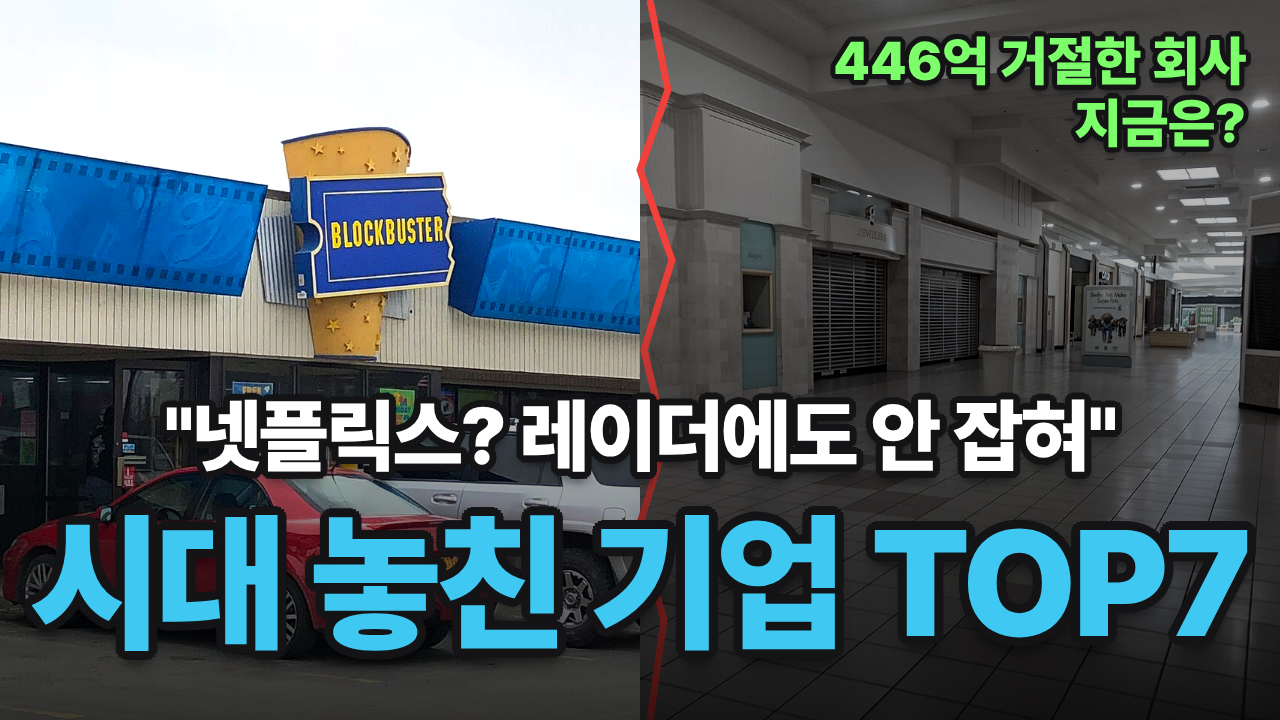
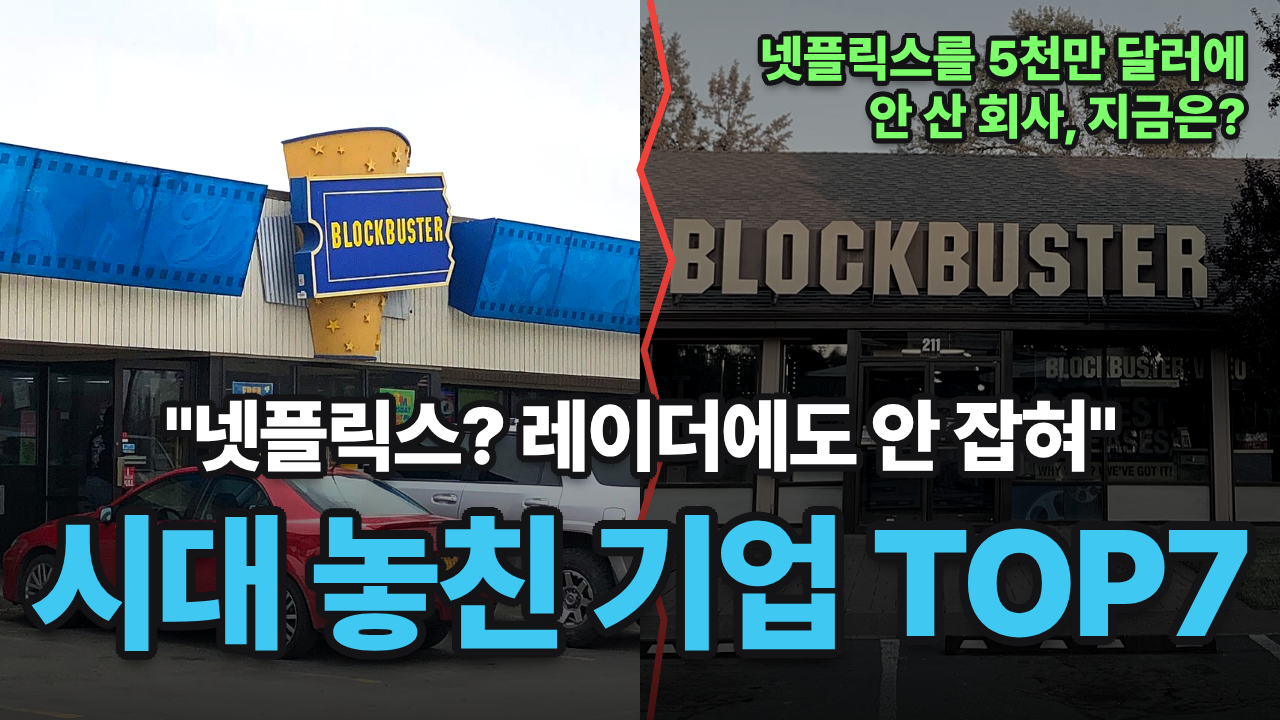
Rebuild thumbnail around the revised intro
Claude-Session: https://claude.ai/code/session_01RLcyHUEQojNezdTodVGnHY

diff --git a/src/Thumbnail.tsx b/src/Thumbnail.tsx
@@ -2,8 +2,9 @@ import React from "react";
 import { AbsoluteFill, Img, staticFile } from "remotion";
 import { C, FONT, loadFonts, outlined } from "./theme";
 
-// YouTube thumbnail in the reference's layout: then-vs-now split photo with a red crack,
-// a quote across the middle, the big sky-blue TOP7 line, and a small hook in the corner.
+// YouTube thumbnail in the reference's layout, built from the intro's beats:
+// corner hook = intro scene 1 (the $50M Netflix offer), centre quote = scene 2 (the radar line),
+// right photo = the intro's answer (the last Blockbuster left), left photo = Blockbuster in its prime.
 export const Thumbnail: React.FC = () => {
   loadFonts();
   const crack = "M 0 0 L 18 90 L -10 170 L 22 260 L -6 350 L 16 440 L -12 530 L 14 620 L 0 720";
@@ -13,16 +14,16 @@ export const Thumbnail: React.FC = () => {
         <Img src={staticFile("images/bb_store.jpg")} style={{ width: "100%", height: "100%", objectFit: "cover", filter: "saturate(1.25) brightness(1.05)" }} />
       </div>
       <div style={{ position: "absolute", left: 640, top: 0, width: 640, height: 720, overflow: "hidden" }}>
-        <Img src={staticFile("images/abandoned_mall.jpg")} style={{ width: "100%", height: "100%", objectFit: "cover", filter: "grayscale(0.6) brightness(0.7) contrast(1.1)" }} />
+        <Img src={staticFile("images/bb_last.jpg")} style={{ width: "100%", height: "100%", objectFit: "cover", filter: "grayscale(0.75) brightness(0.62) contrast(1.15)" }} />
       </div>
       <svg width={60} height={720} viewBox="-30 0 60 720" style={{ position: "absolute", left: 620, top: 0 }}>
         <path d={crack} stroke={C.red} strokeWidth={7} fill="none" />
       </svg>
       <AbsoluteFill style={{ background: "linear-gradient(180deg, rgba(0,0,0,0) 35%, rgba(0,0,0,0.75) 100%)" }} />
-      <div style={{ position: "absolute", right: 34, top: 30, textAlign: "right", color: "#7CFF6B", fontSize: 54, fontWeight: 900, lineHeight: 1.15, ...outlined(10) }}>
-        446억 거절한 회사
+      <div style={{ position: "absolute", right: 34, top: 30, textAlign: "right", color: "#7CFF6B", fontSize: 50, fontWeight: 900, lineHeight: 1.15, ...outlined(10) }}>
+        넷플릭스를 5천만 달러에
         <br />
-        지금은?
+        안 산 회사, 지금은?
       </div>
       <div style={{ position: "absolute", left: 0, right: 0, top: 388, textAlign: "center", color: C.white, fontSize: 80, fontWeight: 900, letterSpacing: -2, ...outlined(14) }}>
         "넷플릭스? 레이더에도 안 잡혀"

diff --git a/content/script_20min_v2.md b/content/script_20min_v2.md
@@ -11,15 +11,19 @@
 - 한 줄 정의: 지금 버는 돈만 지키다 시대를 놓친 기업
 - 공통 믿음: "지금 버는 돈이면 괜찮다고 믿었다"
 - 시청자가 앉을 자리: 그 회사 제품을 쓰던 손님 → 1위에서 회사를 믿은 사람들(은퇴자, 우리 부모님 세대)
-- 제목 안: "넷플릭스? 레이더에도 안 잡혀" 시대를 놓치고 몰락한 공룡 기업 TOP7
+- 제목 안: "넷플릭스? 레이더에도 안 잡혀" 5천만 달러를 비웃은 회사의 최후, 시대를 놓친 기업 TOP7
 
 ## 썸네일 (`thumbnail_v2.png`, `npx remotion still Thumbnail`)
 
-- 배치(원본과 같음): 왼쪽 북적이던 블록버스터 매장 / 오른쪽 텅 빈 상가, 가운데 빨간 균열선
-- 가운데 인용(흰색): "넷플릭스? 레이더에도 안 잡혀" — 2008년 블록버스터 CEO 발언("Neither RedBox nor Netflix are even on the radar screen in terms of competition")을 줄인 요지
-- 큰 글자(하늘색): 시대 놓친 기업 TOP7
-- 오른쪽 위(초록): 446억 거절한 회사 / 지금은?
-- 인트로가 답하는 것: ① 그 말은 누가 했나 → 블록버스터 CEO(2008) ② 그 회사는 지금 → 전 세계에 딱 한 곳 ③ 446억 거절한 회사는 지금 → 야후, 9년 뒤 10분의 1 값에 매각
+인트로의 흐름에 맞춰 구성했습니다. 썸네일이 던진 질문에 인트로가 차례로 답합니다.
+
+| 썸네일 요소 | 내용 | 인트로에서 답하는 곳 |
+|---|---|---|
+| 오른쪽 위 질문(초록) | 넷플릭스를 5천만 달러에 / 안 산 회사, 지금은? | 첫 장면: 2000년 댈러스, 5천만 달러 제안과 웃음 → "그 작은 회사가 넷플릭스였죠" |
+| 가운데 인용(흰색) | "넷플릭스? 레이더에도 안 잡혀" (2008년 CEO 발언 요지) | 둘째 장면: 블록버스터 CEO "레드박스도 넷플릭스도, 경쟁 상대로는 레이더에조차 안 잡힙니다" |
+| 왼쪽 사진 | 전성기 블록버스터 매장(밝게) | 3위 본문의 전성기 |
+| 오른쪽 사진 | 마지막 남은 블록버스터, 오리건주 벤드(어둡게) | "그럼 지금은?" → "블록버스터는 전 세계에 딱 한 곳 남았고" |
+| 큰 글자(하늘색) | 시대 놓친 기업 TOP7 | "지금 버는 돈만 지키다 시대를 놓친 기업, 일곱 곳" |
 
 ## B. 순위표
 
